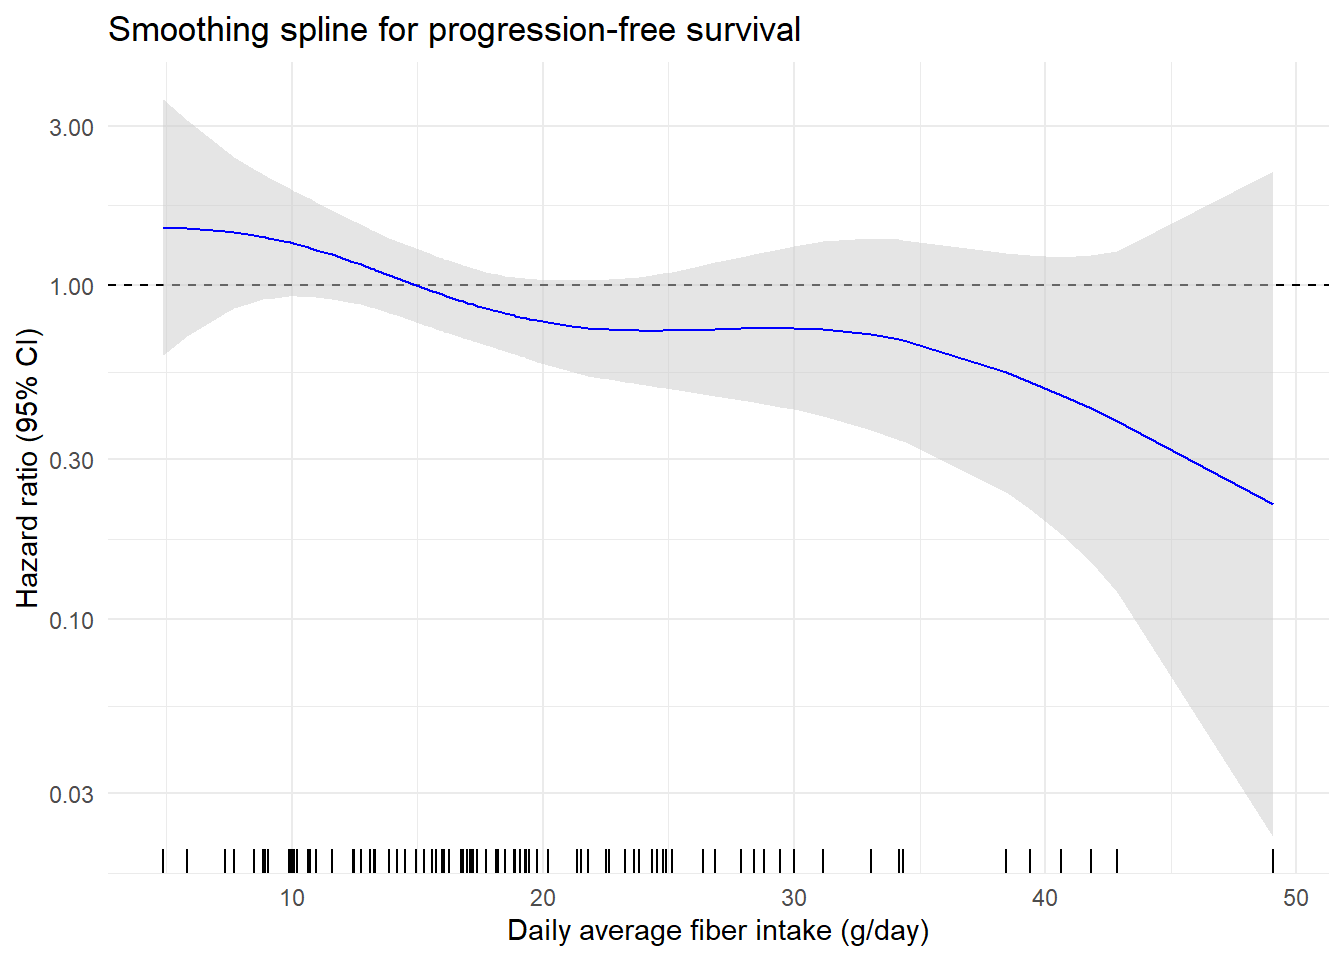
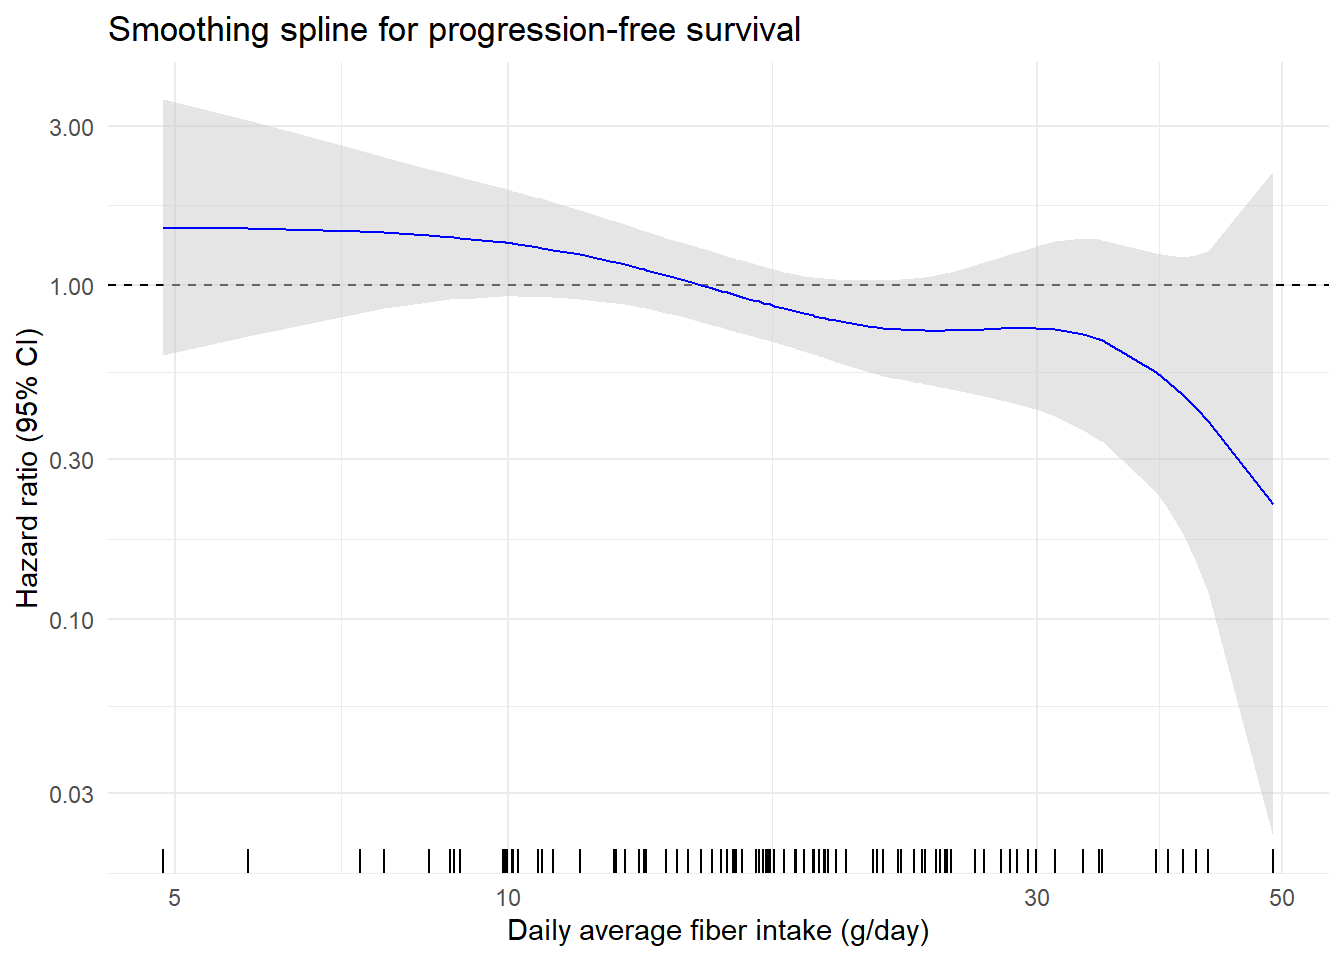
fixing x scaling on splines

diff --git a/docs/figure_1_hazard_ratio_fiber.html b/docs/figure_1_hazard_ratio_fiber.html
@@ -278,7 +278,8 @@ pre > code.sourceCode > span > a:first-child::before { text-decoration: underlin
 <span id="cb1-3"><a href="#cb1-3" aria-hidden="true" tabindex="-1"></a>           <span class="at">xlab =</span> <span class="st">"Daily average fiber intake (g/day)"</span>, <span class="at">ylab=</span><span class="st">"Hazard ratio (95% CI)"</span>,</span>
 <span id="cb1-4"><a href="#cb1-4" aria-hidden="true" tabindex="-1"></a>           <span class="at">title=</span><span class="st">"Smoothing spline for progression-free survival"</span>,</span>
 <span id="cb1-5"><a href="#cb1-5" aria-hidden="true" tabindex="-1"></a>           <span class="at">knots=</span><span class="dv">2</span>,</span>
-<span id="cb1-6"><a href="#cb1-6" aria-hidden="true" tabindex="-1"></a>           <span class="at">centerpoint =</span> <span class="dv">15</span>)</span></code><button title="Copy to Clipboard" class="code-copy-button"><i class="bi"></i></button></pre></div>
+<span id="cb1-6"><a href="#cb1-6" aria-hidden="true" tabindex="-1"></a>           <span class="at">centerpoint =</span> <span class="dv">15</span>)<span class="sc">+</span></span>
+<span id="cb1-7"><a href="#cb1-7" aria-hidden="true" tabindex="-1"></a>  <span class="fu">scale_x_log10</span>()</span></code><button title="Copy to Clipboard" class="code-copy-button"><i class="bi"></i></button></pre></div>
 <div class="cell-output-display">
 <div>
 <figure class="figure">
@@ -297,7 +298,8 @@ pre > code.sourceCode > span > a:first-child::before { text-decoration: underlin
 <span id="cb2-3"><a href="#cb2-3" aria-hidden="true" tabindex="-1"></a>           <span class="at">xlab =</span> <span class="st">"Daily average fiber intake (g/day)"</span>, <span class="at">ylab=</span><span class="st">"Hazard ratio (95% CI)"</span>,</span>
 <span id="cb2-4"><a href="#cb2-4" aria-hidden="true" tabindex="-1"></a>           <span class="at">title=</span><span class="st">"Smoothing spline for overall survival"</span>,</span>
 <span id="cb2-5"><a href="#cb2-5" aria-hidden="true" tabindex="-1"></a>           <span class="at">knots=</span><span class="dv">2</span>, </span>
-<span id="cb2-6"><a href="#cb2-6" aria-hidden="true" tabindex="-1"></a>           <span class="at">centerpoint =</span> <span class="dv">15</span>)</span></code><button title="Copy to Clipboard" class="code-copy-button"><i class="bi"></i></button></pre></div>
+<span id="cb2-6"><a href="#cb2-6" aria-hidden="true" tabindex="-1"></a>           <span class="at">centerpoint =</span> <span class="dv">15</span>) <span class="sc">+</span></span>
+<span id="cb2-7"><a href="#cb2-7" aria-hidden="true" tabindex="-1"></a>  <span class="fu">scale_x_log10</span>()</span></code><button title="Copy to Clipboard" class="code-copy-button"><i class="bi"></i></button></pre></div>
 <div class="cell-output-display">
 <div>
 <figure class="figure">
